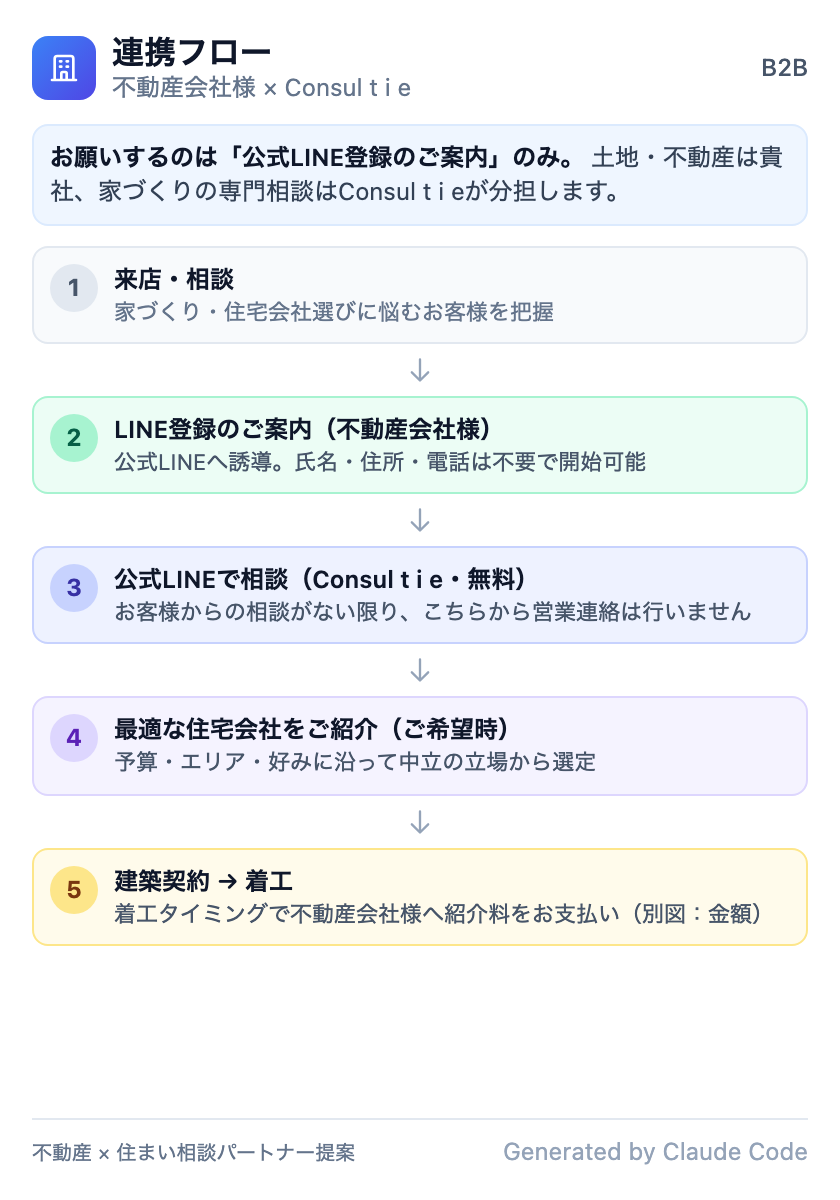
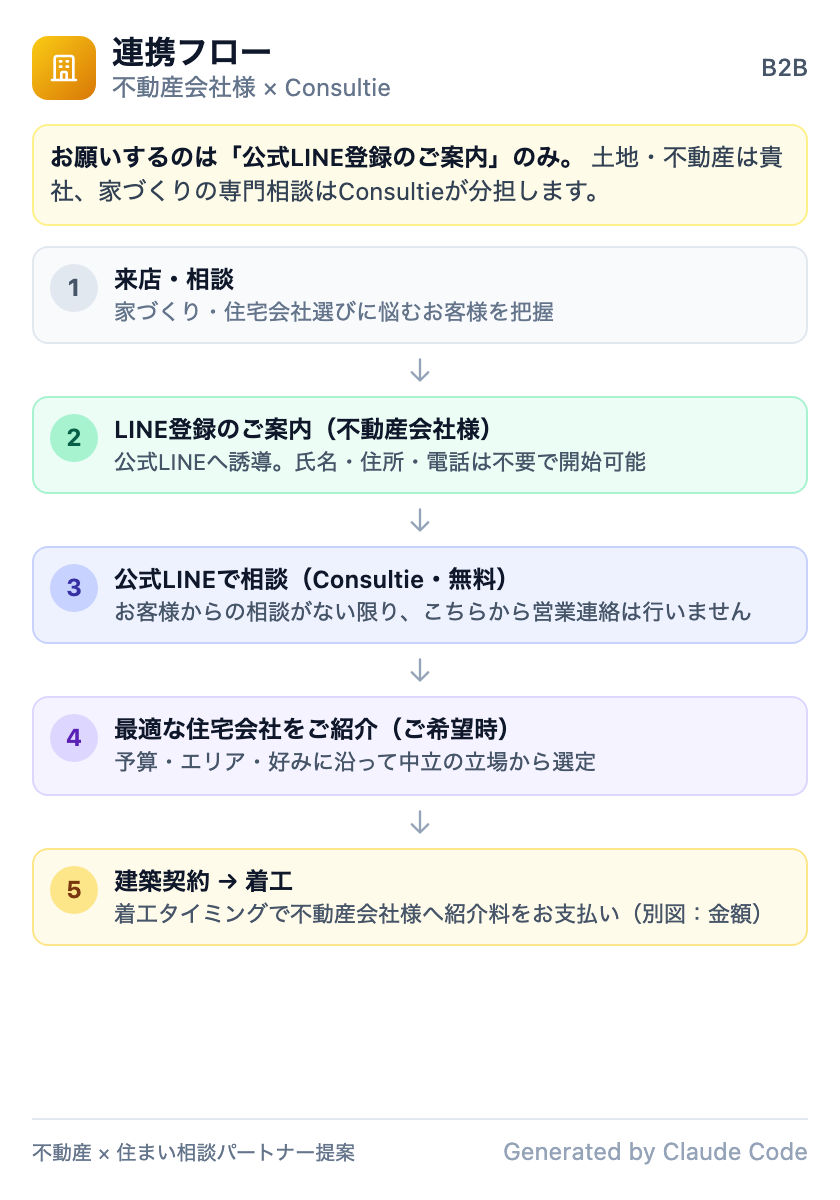
docs(consultie): ブランド色を黄色ベースに変更、表記を Consultie に統一、図解PNGを再出力

diff --git a/docs/consultie-land-partner/lp-real-estate-partnership.html b/docs/consultie-land-partner/lp-real-estate-partnership.html
@@ -3,21 +3,21 @@
 <head>
   <meta charset="UTF-8">
   <meta name="viewport" content="width=device-width, initial-scale=1.0">
-  <meta name="description" content="Consul t i eは、家づくり・住宅会社選びに悩むお客様を不動産会社様から公式LINEで受け止め、中立の立場でサポートする住まい専門コンサルです。連携のご提案をご覧ください。">
-  <title>不動産会社様向け｜住まい相談パートナー｜Consul t i e株式会社</title>
-  <!-- ビジュアルトーン: 秋の家づくり LP（SWELL 系）に倣った配色・雰囲気。当サイトとの提携・同一製品の表現ではありません。 -->
+  <meta name="description" content="Consultieは、家づくり・住宅会社選びに悩むお客様を不動産会社様から公式LINEで受け止め、中立の立場でサポートする住まい専門コンサルです。連携のご提案をご覧ください。">
+  <title>不動産会社様向け｜住まい相談パートナー｜Consultie株式会社</title>
+  <!-- ブランドは黄色／ゴールドをベース。参考サイトの清涼感は水色アクセントで保持。 -->
   <style>
     :root {
-      --color-main: #e58e60;
-      --color-main-dark: #ac6b48;
-      --color-main-soft: rgba(255, 178, 120, 0.15);
+      --color-main: #d4a012;
+      --color-main-dark: #8f6a00;
+      --color-main-soft: rgba(212, 160, 18, 0.18);
       --color-text: #333;
       --color-text-sub: #444;
       --color-muted: #666;
       --color-link: #0c73d3;
       --color-bg: #fdfdfd;
-      --grad-top: #e8fbff;
-      --grad-mid: #d4f4fc;
+      --grad-top: #fffbeb;
+      --grad-mid: #fde68a;
       --color-faq-q: #d55656;
       --color-faq-a: #6599b7;
       --radius: 12px;
@@ -98,7 +98,7 @@
       font-weight: 700;
       border-radius: var(--radius-pill);
       text-decoration: none;
-      box-shadow: 0 3px 14px rgba(229, 142, 96, 0.35);
+      box-shadow: 0 3px 14px rgba(212, 160, 18, 0.4);
     }
     .nav__cta:hover { filter: brightness(1.05); }
 
@@ -106,7 +106,7 @@
     .hero {
       position: relative;
       overflow: hidden;
-      background: linear-gradient(165deg, var(--grad-top) 0%, #f0fdff 35%, #fff 70%);
+      background: linear-gradient(165deg, var(--grad-top) 0%, #fffef5 40%, #fff 72%);
     }
     .hero::after {
       content: "";
@@ -115,7 +115,7 @@
       top: 10%;
       width: 55%;
       height: 80%;
-      background: radial-gradient(ellipse, rgba(184, 239, 255, 0.45) 0%, transparent 70%);
+      background: radial-gradient(ellipse, rgba(253, 224, 71, 0.35) 0%, transparent 70%);
       pointer-events: none;
     }
     .hero__inner {
@@ -162,7 +162,7 @@
       font-size: 0.9375rem;
       border-radius: var(--radius-pill);
       text-decoration: none;
-      box-shadow: 0 4px 20px rgba(229, 142, 96, 0.38);
+      box-shadow: 0 4px 20px rgba(212, 160, 18, 0.42);
     }
     .btn-primary:hover { filter: brightness(1.06); }
     .btn-ghost {
@@ -213,7 +213,7 @@
       padding: 64px 20px;
     }
     .section--soft {
-      background: linear-gradient(180deg, #f8fcfd 0%, var(--color-bg) 100%);
+      background: linear-gradient(180deg, #fffbeb 0%, var(--color-bg) 100%);
     }
     .section__inner { max-width: var(--max); margin: 0 auto; }
 
@@ -287,7 +287,7 @@
       border-radius: var(--radius);
       padding: 18px 14px;
       text-align: center;
-      border: 1px solid rgba(229, 142, 96, 0.25);
+      border: 1px solid rgba(212, 160, 18, 0.3);
       position: relative;
     }
     .flow__step::before {
@@ -358,8 +358,8 @@
       text-align: center;
     }
     .reward--a {
-      background: linear-gradient(180deg, rgba(255, 178, 120, 0.2) 0%, #fff 45%);
-      border: 1px solid rgba(229, 142, 96, 0.4);
+      background: linear-gradient(180deg, rgba(253, 224, 71, 0.35) 0%, #fff 45%);
+      border: 1px solid rgba(212, 160, 18, 0.45);
     }
     .reward--b {
       background: linear-gradient(180deg, rgba(101, 153, 183, 0.15) 0%, #fff 45%);
@@ -414,7 +414,7 @@
 
     /* CTA */
     .cta {
-      background: linear-gradient(135deg, #1a5a6e 0%, var(--color-faq-a) 50%, #87cfe0 100%);
+      background: linear-gradient(135deg, #8f6a00 0%, var(--color-main) 45%, #f5d152 100%);
       color: #fff;
       padding: 56px 20px;
       text-align: center;
@@ -461,7 +461,7 @@
 
   <header class="nav">
     <div class="nav__inner">
-      <a class="nav__brand" href="#top">Consul t i e <span>× 不動産パートナー</span></a>
+      <a class="nav__brand" href="#top">Consultie <span>× 不動産パートナー</span></a>
       <nav class="nav__links" aria-label="ページ内">
         <a href="#about">私たちについて</a>
         <a href="#request">お願いしたいこと</a>
@@ -505,7 +505,7 @@
 
     <section id="about" class="section section--soft" aria-labelledby="about-title">
       <div class="section__inner">
-        <h2 id="about-title">Consul t i e株式会社とは</h2>
+        <h2 id="about-title">Consultie株式会社とは</h2>
         <p class="section__lead">家づくり・住まいの専門コンサルティング会社です。土地・建物・資金計画まで一貫して伴走し、比較・判断に強い専門アカウントとして全国の検討層にもリーチしています。</p>
         <div class="grid-2">
           <div class="card">
@@ -523,7 +523,7 @@
     <section id="request" class="section" aria-labelledby="request-title">
       <div class="section__inner">
         <h2 id="request-title">不動産会社様にお願いしたいこと</h2>
-        <p class="section__lead">お願いするのはシンプルです。<strong>家づくり・住宅会社選びに悩むお客様へ、Consul t i e の公式LINE登録をご案内ください。</strong></p>
+        <p class="section__lead">お願いするのはシンプルです。<strong>家づくり・住宅会社選びに悩むお客様へ、Consultie の公式LINE登録をご案内ください。</strong></p>
         <div class="cap-box">
           <h3 class="cap-box__ttl">ご案内のポイント</h3>
           <div class="cap-box__body">
@@ -552,7 +552,7 @@
           </div>
           <div class="flow__step">
             <div class="flow__title">サポート</div>
-            <div class="flow__desc">Consul t i e が整理・ご紹介（ご希望時）</div>
+            <div class="flow__desc">Consultie が整理・ご紹介（ご希望時）</div>
           </div>
           <div class="flow__step">
             <div class="flow__title">契約</div>
@@ -664,7 +664,7 @@
   </main>
 
   <footer>
-    <p><strong>Consul t i e株式会社</strong><br>（所在地・登録番号等を記載）</p>
+    <p><strong>Consultie株式会社</strong><br>（所在地・登録番号等を記載）</p>
     <p style="margin-top:8px">本ページは提携検討用の案内イメージです。条件は契約書を優先してください。</p>
     <div class="doc-links">
       <a href="01-b2b-partnership-flow.html">連携フロー図</a>

diff --git a/docs/consultie-land-partner/flyer-b2b-real-estate-a4.html b/docs/consultie-land-partner/flyer-b2b-real-estate-a4.html
@@ -3,21 +3,21 @@
 <head>
   <meta charset="UTF-8">
   <meta name="viewport" content="width=device-width, initial-scale=1.0">
-  <title>不動産会社様向けチラシ — Consul t i e 連携パートナー</title>
-  <!-- ビジュアルトーン: aki-no-iezukuri.co.jp の LP（SWELL 系トークン）に合わせた配色・タイポのみ。当社とは無関係です。 -->
+  <title>不動産会社様向けチラシ — Consultie 連携パートナー</title>
+  <!-- ブランドは黄色／ゴールド系をベース。タイポは参考LPに近い設定。 -->
   <style>
     :root {
-      --color-main: #e58e60;
-      --color-main-dark: #ac6b48;
-      --color-main-soft: rgba(255, 178, 120, 0.12);
+      --color-main: #d4a012;
+      --color-main-dark: #8f6a00;
+      --color-main-soft: rgba(212, 160, 18, 0.18);
       --color-text: #333333;
       --color-text-sub: #555555;
       --color-muted: #6b6b6b;
       --color-link: #0c73d3;
       --color-bg: #fdfdfd;
       --color-bg-screen: #eceff4;
-      --gradient-1: #e8fbff;
-      --gradient-2: #b8efff;
+      --gradient-1: #fffbeb;
+      --gradient-2: #fde68a;
       --color-faq-q: #d55656;
       --color-faq-a: #6599b7;
       --color-faq-a-bg: rgba(101, 153, 183, 0.12);
@@ -87,7 +87,7 @@
       padding: 10px 14px 14px;
       border-radius: var(--radius);
       background: linear-gradient(135deg, var(--gradient-1) 0%, #f5feff 45%, #fff 100%);
-      border: 1px solid rgba(135, 231, 255, 0.35);
+      border: 1px solid rgba(250, 204, 21, 0.45);
     }
 
     .eyebrow {
@@ -133,7 +133,7 @@
       width: 22mm;
       height: 22mm;
       border-radius: var(--radius-sm);
-      border: 2px dashed rgba(229, 142, 96, 0.45);
+      border: 2px dashed rgba(212, 160, 18, 0.55);
       background: #fff;
       display: flex;
       align-items: center;
@@ -163,7 +163,7 @@
       display: flex;
       align-items: center;
       justify-content: center;
-      box-shadow: 0 2px 8px rgba(229, 142, 96, 0.35);
+      box-shadow: 0 2px 8px rgba(212, 160, 18, 0.4);
     }
 
     .brand-icon svg { width: 20px; height: 20px; color: #fff; }
@@ -343,7 +343,7 @@
       font-weight: 700;
       color: var(--color-main);
       padding-bottom: 8px;
-      border-bottom: 2px solid rgba(229, 142, 96, 0.35);
+      border-bottom: 2px solid rgba(212, 160, 18, 0.4);
     }
 
     .back-lead {
@@ -390,7 +390,7 @@
       display: flex;
       align-items: center;
       justify-content: center;
-      box-shadow: 0 2px 6px rgba(229, 142, 96, 0.35);
+      box-shadow: 0 2px 6px rgba(212, 160, 18, 0.38);
       z-index: 1;
     }
 
@@ -421,8 +421,8 @@
     }
 
     .reward--line {
-      background: linear-gradient(180deg, rgba(255, 178, 120, 0.18) 0%, #fff 40%);
-      border-color: rgba(229, 142, 96, 0.45);
+      background: linear-gradient(180deg, rgba(253, 224, 71, 0.35) 0%, #fff 40%);
+      border-color: rgba(212, 160, 18, 0.5);
     }
 
     .reward--build {
@@ -576,7 +576,7 @@
         <svg fill="none" stroke="currentColor" viewBox="0 0 24 24" stroke-width="2"><path stroke-linecap="round" stroke-linejoin="round" d="M19 21V5a2 2 0 00-2-2H7a2 2 0 00-2 2v16m14 0h2m-2 0h-5m-9 0H3m2 0h5M9 7h1m-1 4h1m4-4h1m-1 4h1m-5 10v-5a1 1 0 011-1h2a1 1 0 011 1v5m-4 0h4"/></svg>
       </div>
       <div>
-        <p class="brand-name">Consul t i e株式会社</p>
+        <p class="brand-name">Consultie株式会社</p>
         <p class="brand-tag">家づくり・住まいの専門コンサルティング</p>
       </div>
     </div>
@@ -637,7 +637,7 @@
     <ol class="steps">
       <li class="step"><span class="step-num">1</span><span class="step-text"><b>不動産会社様</b>：お客様へ公式LINE登録をご案内</span></li>
       <li class="step"><span class="step-num">2</span><span class="step-text"><b>お客様</b>：公式LINEで家づくり相談（無料）</span></li>
-      <li class="step"><span class="step-num">3</span><span class="step-text"><b>Consul t i e</b>：ご希望があれば最適な住宅会社をご紹介</span></li>
+      <li class="step"><span class="step-num">3</span><span class="step-text"><b>Consultie</b>：ご希望があれば最適な住宅会社をご紹介</span></li>
       <li class="step"><span class="step-num">4</span><span class="step-text"><b>ご紹介先</b>で建築契約が成立</span></li>
       <li class="step"><span class="step-num">5</span><span class="step-text"><b>着工タイミング</b>で貴社へ協力金をお支払い（条件付）</span></li>
     </ol>
@@ -686,7 +686,7 @@
         店内POP・チラシ同梱、SNSでの相互紹介など柔軟に対応します。
       </div>
       <div class="back-footer-meta">
-        Consul t i e株式会社<br>
+        Consultie株式会社<br>
         （所在地・登録番号等を記載）<br>
         <span style="display:block;margin-top:4px;">本チラシは案内用イメージです。最終条件は契約書をご確認ください。</span>
       </div>

diff --git a/docs/consultie-land-partner/index.html b/docs/consultie-land-partner/index.html
@@ -3,7 +3,7 @@
 <head>
   <meta charset="UTF-8">
   <meta name="viewport" content="width=device-width, initial-scale=1.0">
-  <title>Consul t i e 連携パートナー — 図解一覧</title>
+  <title>Consultie 連携パートナー — 図解一覧</title>
   <script src="https://cdn.tailwindcss.com"></script>
   <style>
     body { font-family: -apple-system, BlinkMacSystemFont, 'Segoe UI', 'Hiragino Sans', sans-serif; }
@@ -12,7 +12,7 @@
 <body class="bg-slate-50 min-h-screen p-6">
   <!-- リポジトリ名／オーナーが変わったら BASE を置換してください -->
   <div class="max-w-lg mx-auto">
-    <h1 class="text-lg font-semibold text-slate-900 mb-1">Consul t i e 連携パートナー</h1>
+    <h1 class="text-lg font-semibold text-slate-900 mb-1">Consultie 連携パートナー</h1>
     <p class="text-sm text-slate-500 mb-4">図解（HTML／PNG）のインデックス。リンクは GitHub Pages の絶対 URL です（相対パスずれ・コピー漏れを防ぐため）。</p>
 
     <div class="mb-4 p-3 rounded-lg bg-amber-50 border border-amber-200 text-xs text-amber-950 space-y-2">
@@ -28,11 +28,11 @@
       <section class="bg-white rounded-xl border border-slate-200 shadow-sm overflow-hidden">
         <div class="px-4 py-2.5 bg-slate-900 text-white text-sm font-medium">不動産会社様向け</div>
         <ul class="divide-y divide-slate-100">
-          <li class="p-4 bg-gradient-to-br from-orange-50 to-cyan-50/80 border-b border-orange-100">
+          <li class="p-4 bg-gradient-to-br from-yellow-50 to-cyan-50/80 border-b border-yellow-200">
             <div class="text-sm font-medium text-slate-900 mb-2">公式ランディングページ（Web）</div>
-            <p class="text-xs text-slate-600 mb-2">秋の家づくりLPトーンに合わせた1枚もの。スマホ・PC対応。</p>
+            <p class="text-xs text-slate-600 mb-2">黄色ベースのトーン。スマホ・PC対応。</p>
             <div class="flex flex-wrap gap-2">
-              <a class="inline-flex items-center px-3 py-1.5 rounded-lg bg-orange-500 text-white text-xs font-bold hover:bg-orange-600" href="https://murase3002-arch.github.io/land-customer-report/consultie-land-partner/lp-real-estate-partnership.html">LP を開く</a>
+              <a class="inline-flex items-center px-3 py-1.5 rounded-lg bg-yellow-500 text-yellow-950 text-xs font-bold hover:bg-yellow-400" href="https://murase3002-arch.github.io/land-customer-report/consultie-land-partner/lp-real-estate-partnership.html">LP を開く</a>
               <a class="inline-flex items-center px-3 py-1.5 rounded-lg bg-white text-slate-700 text-xs font-medium border border-slate-200 hover:bg-slate-50" href="lp-real-estate-partnership.html">相対リンク</a>
             </div>
           </li>

diff --git a/docs/consultie-land-partner/01-b2b-partnership-flow.html b/docs/consultie-land-partner/01-b2b-partnership-flow.html
@@ -13,23 +13,23 @@
   <div class="w-[420px] h-[600px] mx-auto flex flex-col overflow-hidden box-border p-4">
     <div class="flex items-center justify-between mb-2.5">
       <div class="flex items-center gap-2">
-        <div class="w-8 h-8 rounded-lg bg-gradient-to-br from-blue-500 to-indigo-600 flex items-center justify-center">
+        <div class="w-8 h-8 rounded-lg bg-gradient-to-br from-yellow-400 to-amber-600 flex items-center justify-center">
           <svg class="w-4 h-4 text-white" fill="none" stroke="currentColor" viewBox="0 0 24 24" stroke-width="2">
             <path stroke-linecap="round" stroke-linejoin="round" d="M19 21V5a2 2 0 00-2-2H7a2 2 0 00-2 2v16m14 0h2m-2 0h-5m-9 0H3m2 0h5M9 7h1m-1 4h1m4-4h1m-1 4h1m-5 10v-5a1 1 0 011-1h2a1 1 0 011 1v5m-4 0h4"/>
           </svg>
         </div>
         <div>
           <h1 class="text-base font-semibold text-slate-900 leading-tight">連携フロー</h1>
-          <p class="text-xs text-slate-500">不動産会社様 × Consul t i e</p>
+          <p class="text-xs text-slate-500">不動産会社様 × Consultie</p>
         </div>
       </div>
       <div class="text-xs font-medium text-slate-600">B2B</div>
     </div>
 
-    <div class="mb-2.5 p-2 bg-blue-50 rounded-lg border border-blue-100">
+    <div class="mb-2.5 p-2 bg-yellow-50 rounded-lg border border-yellow-200">
       <p class="text-xs text-slate-700 leading-snug">
         <span class="font-semibold text-slate-900">お願いするのは「公式LINE登録のご案内」のみ。</span>
-        土地・不動産は貴社、家づくりの専門相談はConsul t i eが分担します。
+        土地・不動産は貴社、家づくりの専門相談はConsultieが分担します。
       </p>
     </div>
 
@@ -53,7 +53,7 @@
       <div class="flex items-start gap-2 p-2 bg-indigo-50 rounded-lg border border-indigo-200">
         <div class="w-6 h-6 rounded-full bg-indigo-200 flex items-center justify-center shrink-0 text-xs font-bold text-indigo-800">3</div>
         <div class="min-w-0">
-          <div class="text-xs font-semibold text-slate-900">公式LINEで相談（Consul t i e・無料）</div>
+          <div class="text-xs font-semibold text-slate-900">公式LINEで相談（Consultie・無料）</div>
           <p class="text-[11px] text-slate-600 leading-snug">お客様からの相談がない限り、こちらから営業連絡は行いません</p>
         </div>
       </div>

diff --git a/docs/consultie-land-partner/02-b2b-reward-flow.html b/docs/consultie-land-partner/02-b2b-reward-flow.html
@@ -13,7 +13,7 @@
   <div class="w-[420px] h-[600px] mx-auto flex flex-col overflow-hidden box-border p-4">
     <div class="flex items-center justify-between mb-3">
       <div class="flex items-center gap-2">
-        <div class="w-8 h-8 rounded-lg bg-gradient-to-br from-amber-500 to-orange-600 flex items-center justify-center">
+        <div class="w-8 h-8 rounded-lg bg-gradient-to-br from-yellow-400 to-amber-700 flex items-center justify-center">
           <svg class="w-4 h-4 text-white" fill="none" stroke="currentColor" viewBox="0 0 24 24" stroke-width="2">
             <path stroke-linecap="round" stroke-linejoin="round" d="M12 8c-1.657 0-3 .895-3 2s1.343 2 3 2 3 .895 3 2-1.343 2-3 2m0-8c1.11 0 2.08.402 2.599 1M12 8V7m0 1v8m0 0v1m0-1c-1.11 0-2.08-.402-2.599-1M21 12a9 9 0 11-18 0 9 9 0 0118 0z"/>
           </svg>
@@ -77,7 +77,7 @@
 
     <div class="border-t border-slate-200 pt-2 mt-auto">
       <div class="flex items-center justify-between">
-        <span class="text-[10px] text-slate-500">Consul t i e株式会社・提携提案</span>
+        <span class="text-[10px] text-slate-500">Consultie株式会社・提携提案</span>
         <div class="text-xs text-slate-400">Generated by Claude Code</div>
       </div>
     </div>

diff --git a/docs/consultie-land-partner/03-b2c-customer-experience.html b/docs/consultie-land-partner/03-b2c-customer-experience.html
@@ -60,7 +60,7 @@
         </div>
         <svg class="w-4 h-4 text-slate-400" fill="none" stroke="currentColor" viewBox="0 0 24 24" stroke-width="2"><path stroke-linecap="round" stroke-linejoin="round" d="M19 14l-7 7m0 0l-7-7m7 7V3"/></svg>
         <div class="w-full px-2.5 py-1.5 bg-violet-100 rounded-lg border border-violet-200 text-center">
-          <div class="text-xs font-semibold text-violet-900">2. Consul t i eに相談（チャットで無料）</div>
+          <div class="text-xs font-semibold text-violet-900">2. Consultieに相談（チャットで無料）</div>
           <div class="text-[10px] text-violet-800/90 mt-0.5">予算・エリア・好みをヒアリングし、次のアクションを提案</div>
         </div>
         <svg class="w-4 h-4 text-slate-400" fill="none" stroke="currentColor" viewBox="0 0 24 24" stroke-width="2"><path stroke-linecap="round" stroke-linejoin="round" d="M19 14l-7 7m0 0l-7-7m7 7V3"/></svg>

diff --git a/docs/index.html b/docs/index.html
@@ -133,7 +133,7 @@ body {
     <a href="consultie-land-partner/" class="card c5">
       <div class="card-top">
         <div class="card-icon">🤝</div>
-        <div class="card-label">Consul t i e 連携</div>
+        <div class="card-label">Consultie 連携</div>
         <div class="card-title">不動産会社向け・お客様向け 図解</div>
         <div class="card-desc">提携LP・連携フロー・報酬・図解・印刷チラシの一覧。短縮URL（チラシ）: …/flyer-consultie-b2b.html</div>
       </div>

diff --git a/docs/flyer-consultie-b2b.html b/docs/flyer-consultie-b2b.html
@@ -9,6 +9,6 @@
 </head>
 <body style="font-family: system-ui, sans-serif; padding: 2rem; max-width: 40rem; margin: auto;">
   <p>チラシページへ移動します…</p>
-  <p><a href="consultie-land-partner/flyer-b2b-real-estate-a4.html">移動しない場合はこちら（Consul t i e 不動産会社向けチラシ）</a></p>
+  <p><a href="consultie-land-partner/flyer-b2b-real-estate-a4.html">移動しない場合はこちら（Consultie 不動産会社向けチラシ）</a></p>
 </body>
 </html>
